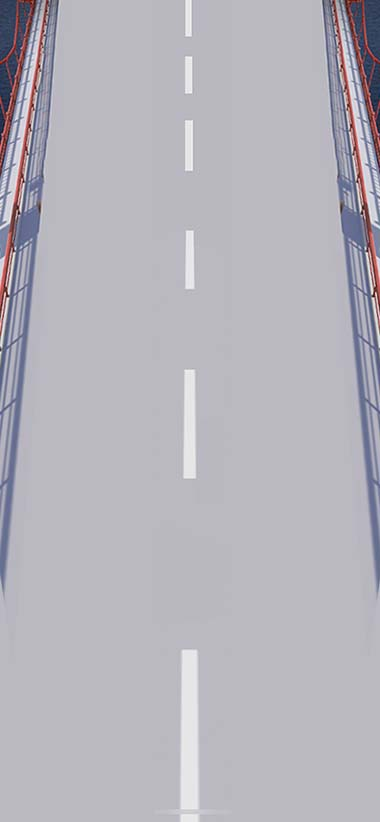
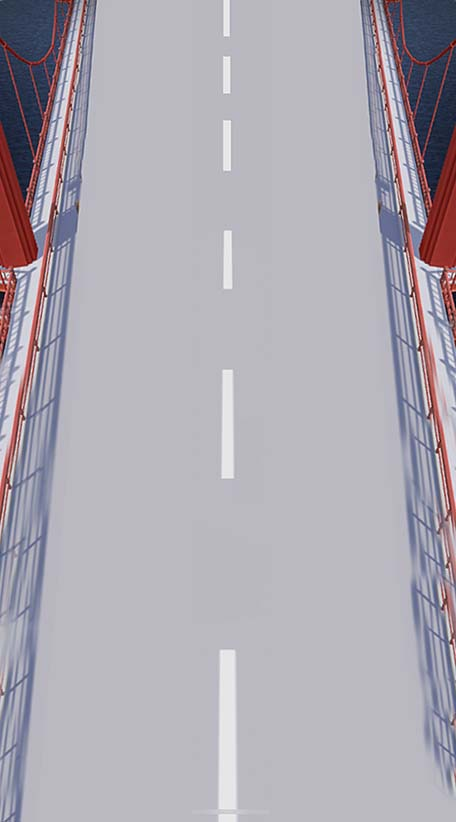
bg css 조정

Changed region(s): [[0.7816, 0.0, 1.0, 0.9732], [0.0, 0.0, 0.2316, 1.0]]

diff --git a/src/index.css b/src/index.css
@@ -31,11 +31,16 @@ code {
 }
 
 .bg {
-  background-image: url("/public/bg/bg.jpg");
+  position: absolute;
+  inset: 0;
+
+  /* 메인: 꽉 채움(조금 잘림 허용) */
+  background-image: url("/public//bg/bg.jpg");
   background-repeat: no-repeat;
-  width: 100%;
-  height: 100%;
-  background-size: contain;
+  background-position: center;
+  background-size: cover;
+
+  transform-origin: center;
 }
 
 /* 걷는 애니메이션 */
